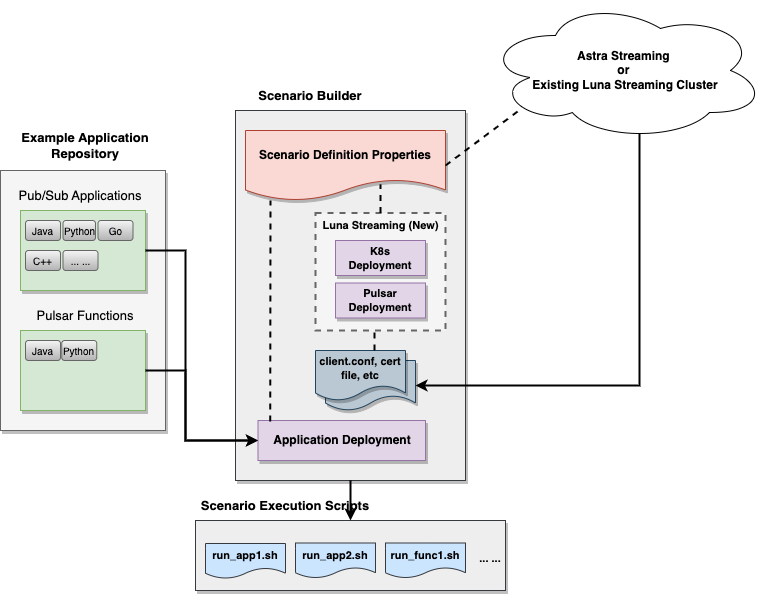
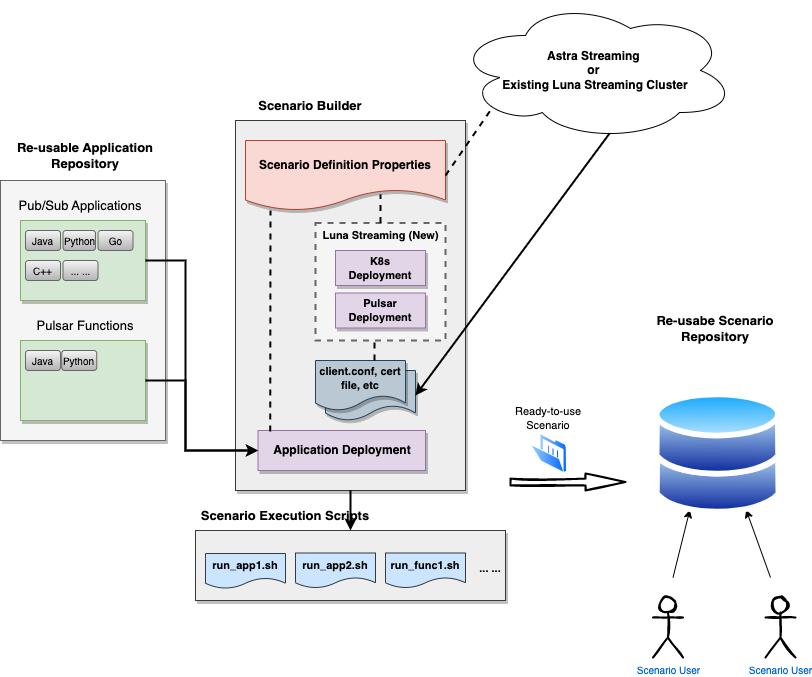
Update README

diff --git a/README.md b/README.md
@@ -2,26 +2,23 @@
 
 ## 1.1. What is this repository about?
 
-This repository is designed to make it easy to learn, use, and showcase Apache Pulsar as a powerful and **unified** messaging and streaming processing platform. There are three major components at the core of this repository:
+The `Reusable PoC framework` (or simply the framework) as presented in this GitHub repository is designed to make it easy to use and showcase Apache Pulsar as a powerful and **unified** messaging and streaming processing platform for common messaging and streaming processing use cases (aka, `PoC scenario`). There are three major components at the core of this framework:
 
-1. A list of highly reusable Apache Pulsar example *client applications* and *functions* that are written in different languages and APIs (see detailed doc [here]()). Examples of the following APIs are included in this repository:
-   * Native Pulsar client API (nativeapi)
-   * Starlight for JMS API (s4j)
-   * Native Kafka client API
-   * Native RabbitMQ client API
+1. A repository of reusable example Apache Pulsar codes, *client applications* and *functions*, that are written in different languages and APIs.
 
-2. A simple configuration based tool to launch a K8s cluster and an Apache Pulsar cluster.
-   * It also allows using Astra Streaming or any existing Apache Pulsar cluster as the running environment.
+2. A simple configuration based (PoC) scenario building tool that allows you to build a reusable scenario that represents a typical messaging and streaming processing scenario.
 
-3. A "scenario" based mechanism that allows you to run any typical messaging processing patterns by simply choosing desired example applications from the reusable application list. 
+3. A reusable (PoC) scenario repository for people who want to run the scenario directly without worrying about creating the underlying infrastructure and/or writing application codes.
 
-We'll go through each of these components with more details in the rest of the documents in this repository.
+**NOTE**: It has to be pointed out though that this repository is `NOT` a Pulsar tutorial. It won't teach you neither Apache Pulsar basics nor messaging and streaming processing fundamentals. 
 
 ## 1.2. Whom is this repository designed for? 
 
-First, this repository is meant for people who want to learn how to write Apache Pulsar client applications and functions for various messaging and streaming processing use cases. **Note** that the "client applications" can be native to other messaging and streaming technologies such as JMS, Kafka, and RabbitMQ; but they all can connect to an Apache Pulsar cluster. This is exactly why Apache Pulsar is so powerful as a unified messaging and streaming platform.
+First and foremost, this framework is meant to `enable the enablers`. This framework provides a simple and ready-to-use tool to the streaming Data Architects and/or Solutions Architects and allow them to easily showcase the power of Apache Pulsar system without spending lengthy time on environment setup and code writing from the scratch.
 
-Second, this repository is meant for people who want to run a quick end-to-end demo of using Apache Pulsar to address certain messaging and streaming processing use cases; but don't want to go through all the details of how to properly prepare, install, and configure an Apache Pulsar cluster. This repository greatly simplifies the task of "cluster provisioning" via a simple configuration based, fully automated script.
+Secondly, this framework offers the capability of building a PoC demonstration scenario in a fast and simple configuration based approach. The built scenario follows the common format and workflow and will automatically become a part of a reusable scenario repository. This helps avoid the `reinvent the wheel` problem; and also makes possible of quick-iteration when needed. This will greatly expedite and enhance the customer interaction experience.
+
+Last but not the least, this framework maintains reusable Pulsar example codes. For end-users who have basic understanding of Apache Pulsar, this framework offers them a great way to enhance and expand their knowledge via concrete examples. 
 
 ---
 
@@ -29,8 +26,14 @@ Second, this repository is meant for people who want to run a quick end-to-end d
 
 Depending on your purpose of using this repository, several quick start guides are provided:
 
-* (**Core Concept**) [Introduction and Overall Framework Structure](doc/overall_structure.md)
+* [Introduction and Overall Framework Structure](doc/overall_structure.md)
 
-* (**Quick Start Guide**) [Using and Building Example Application](doc/app_code.md)
+* [Building Example Applications](doc/app_code.md)
 
-* (**Quick Start Guide**) [Building and Deploying Scenarios](doc/understand_scenario.md)
+* [Building and Deploying Scenarios](doc/understand_scenario.md)
+
+---
+
+For those who want to jump right into the reusable demo scenarios, please check the following link: 
+
+* [Reusable Demo Scenario Repository](doc/reusable_scn_repos.md)
